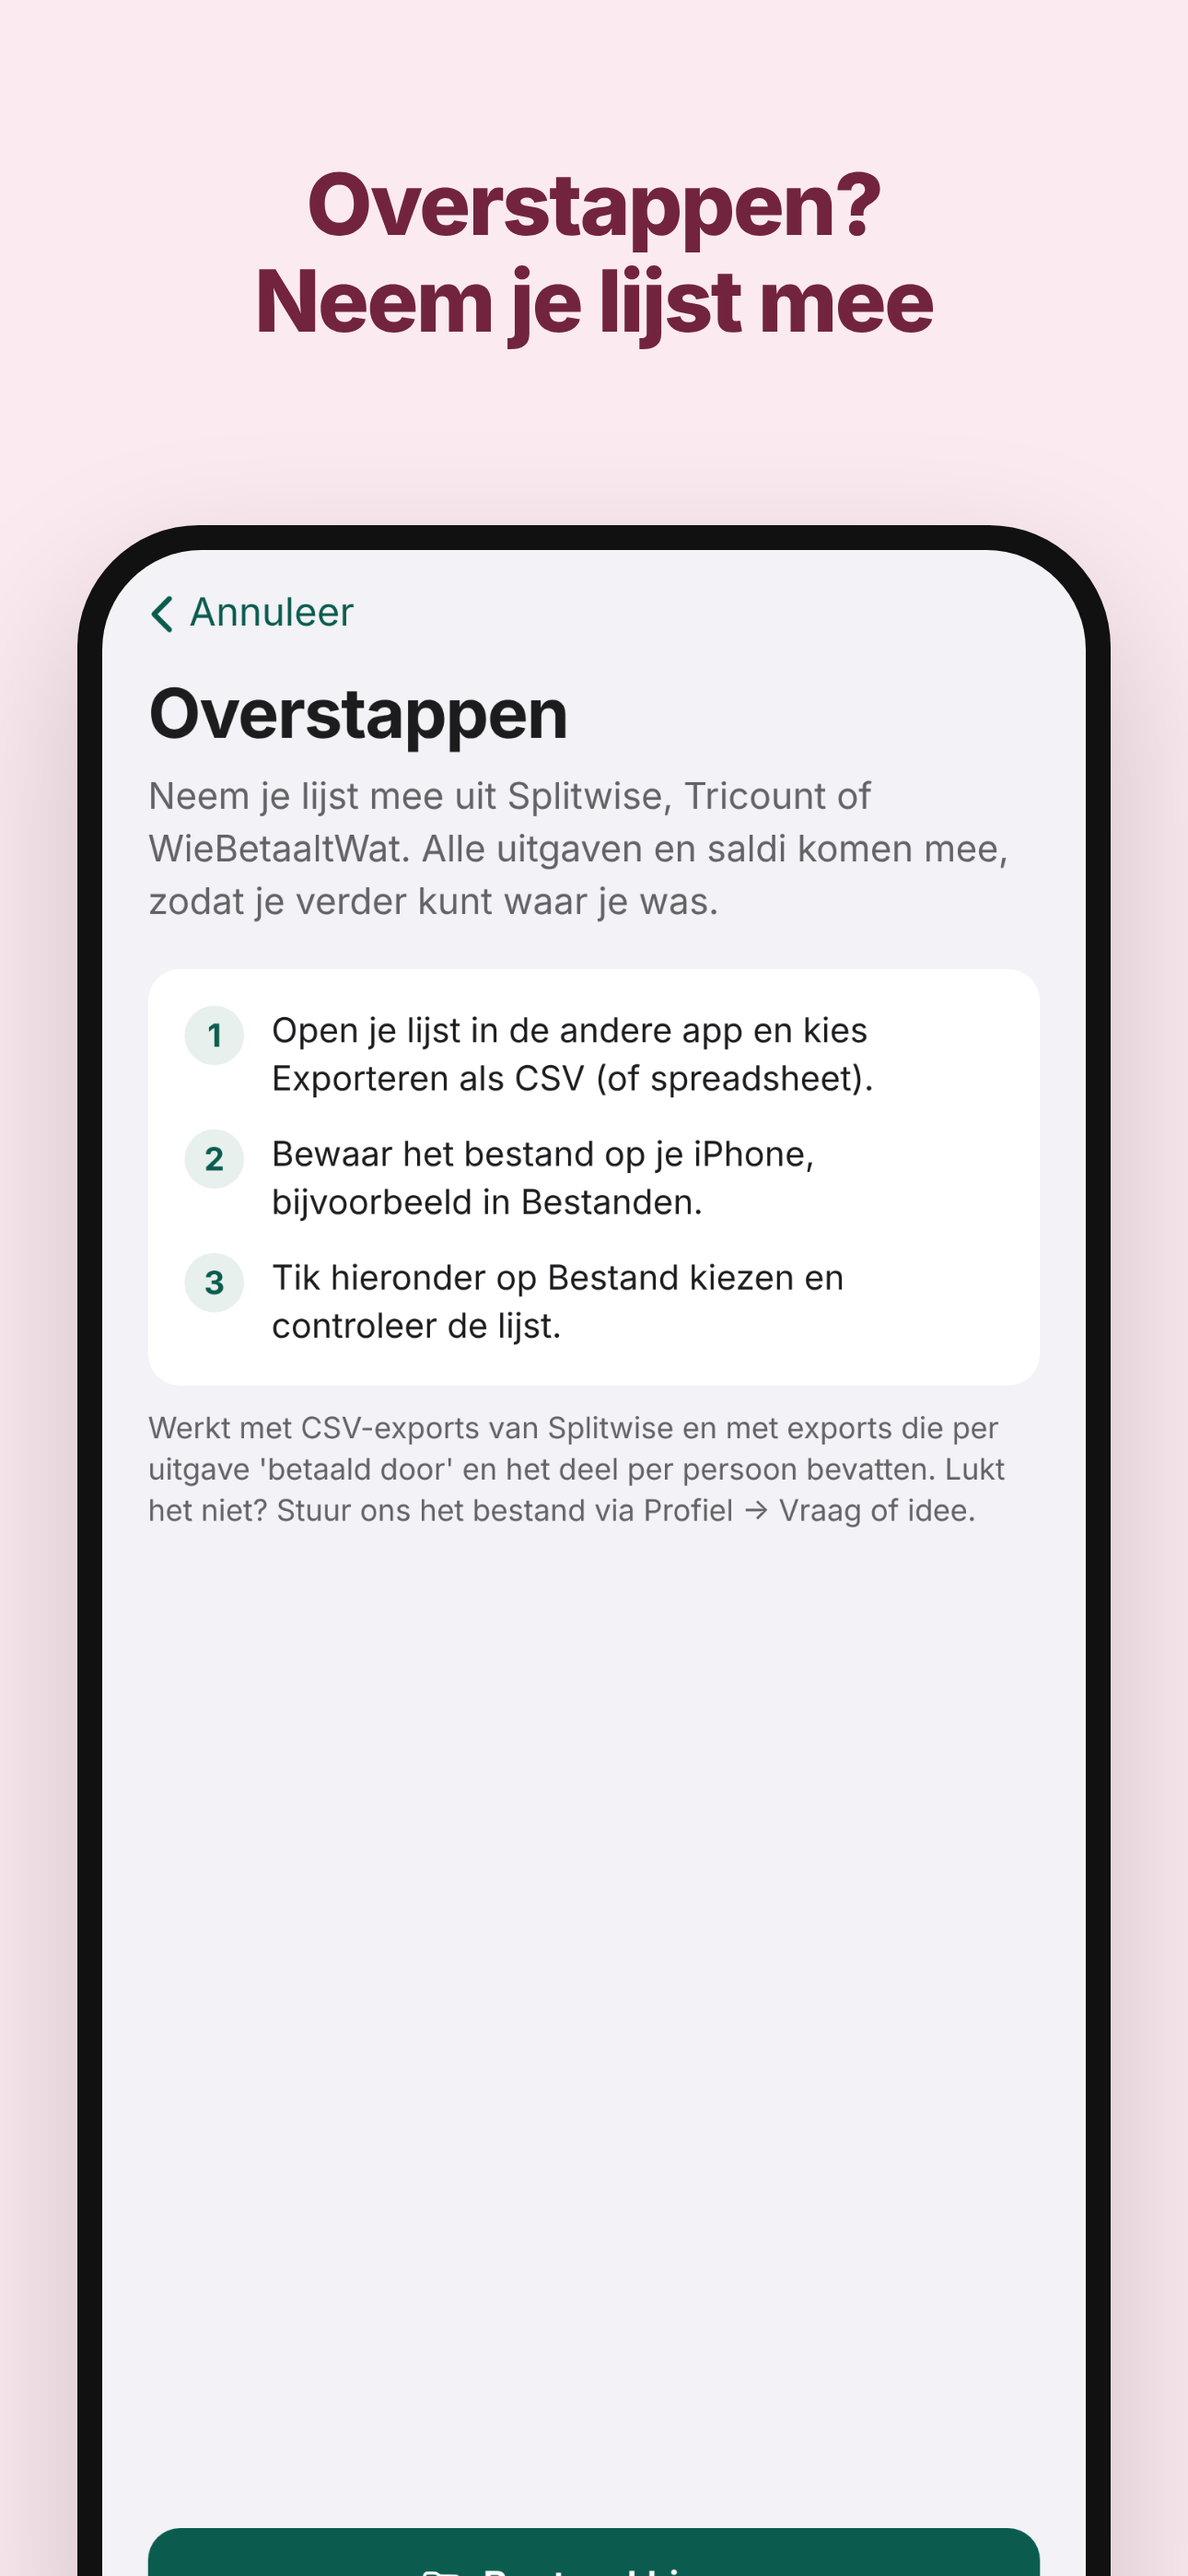
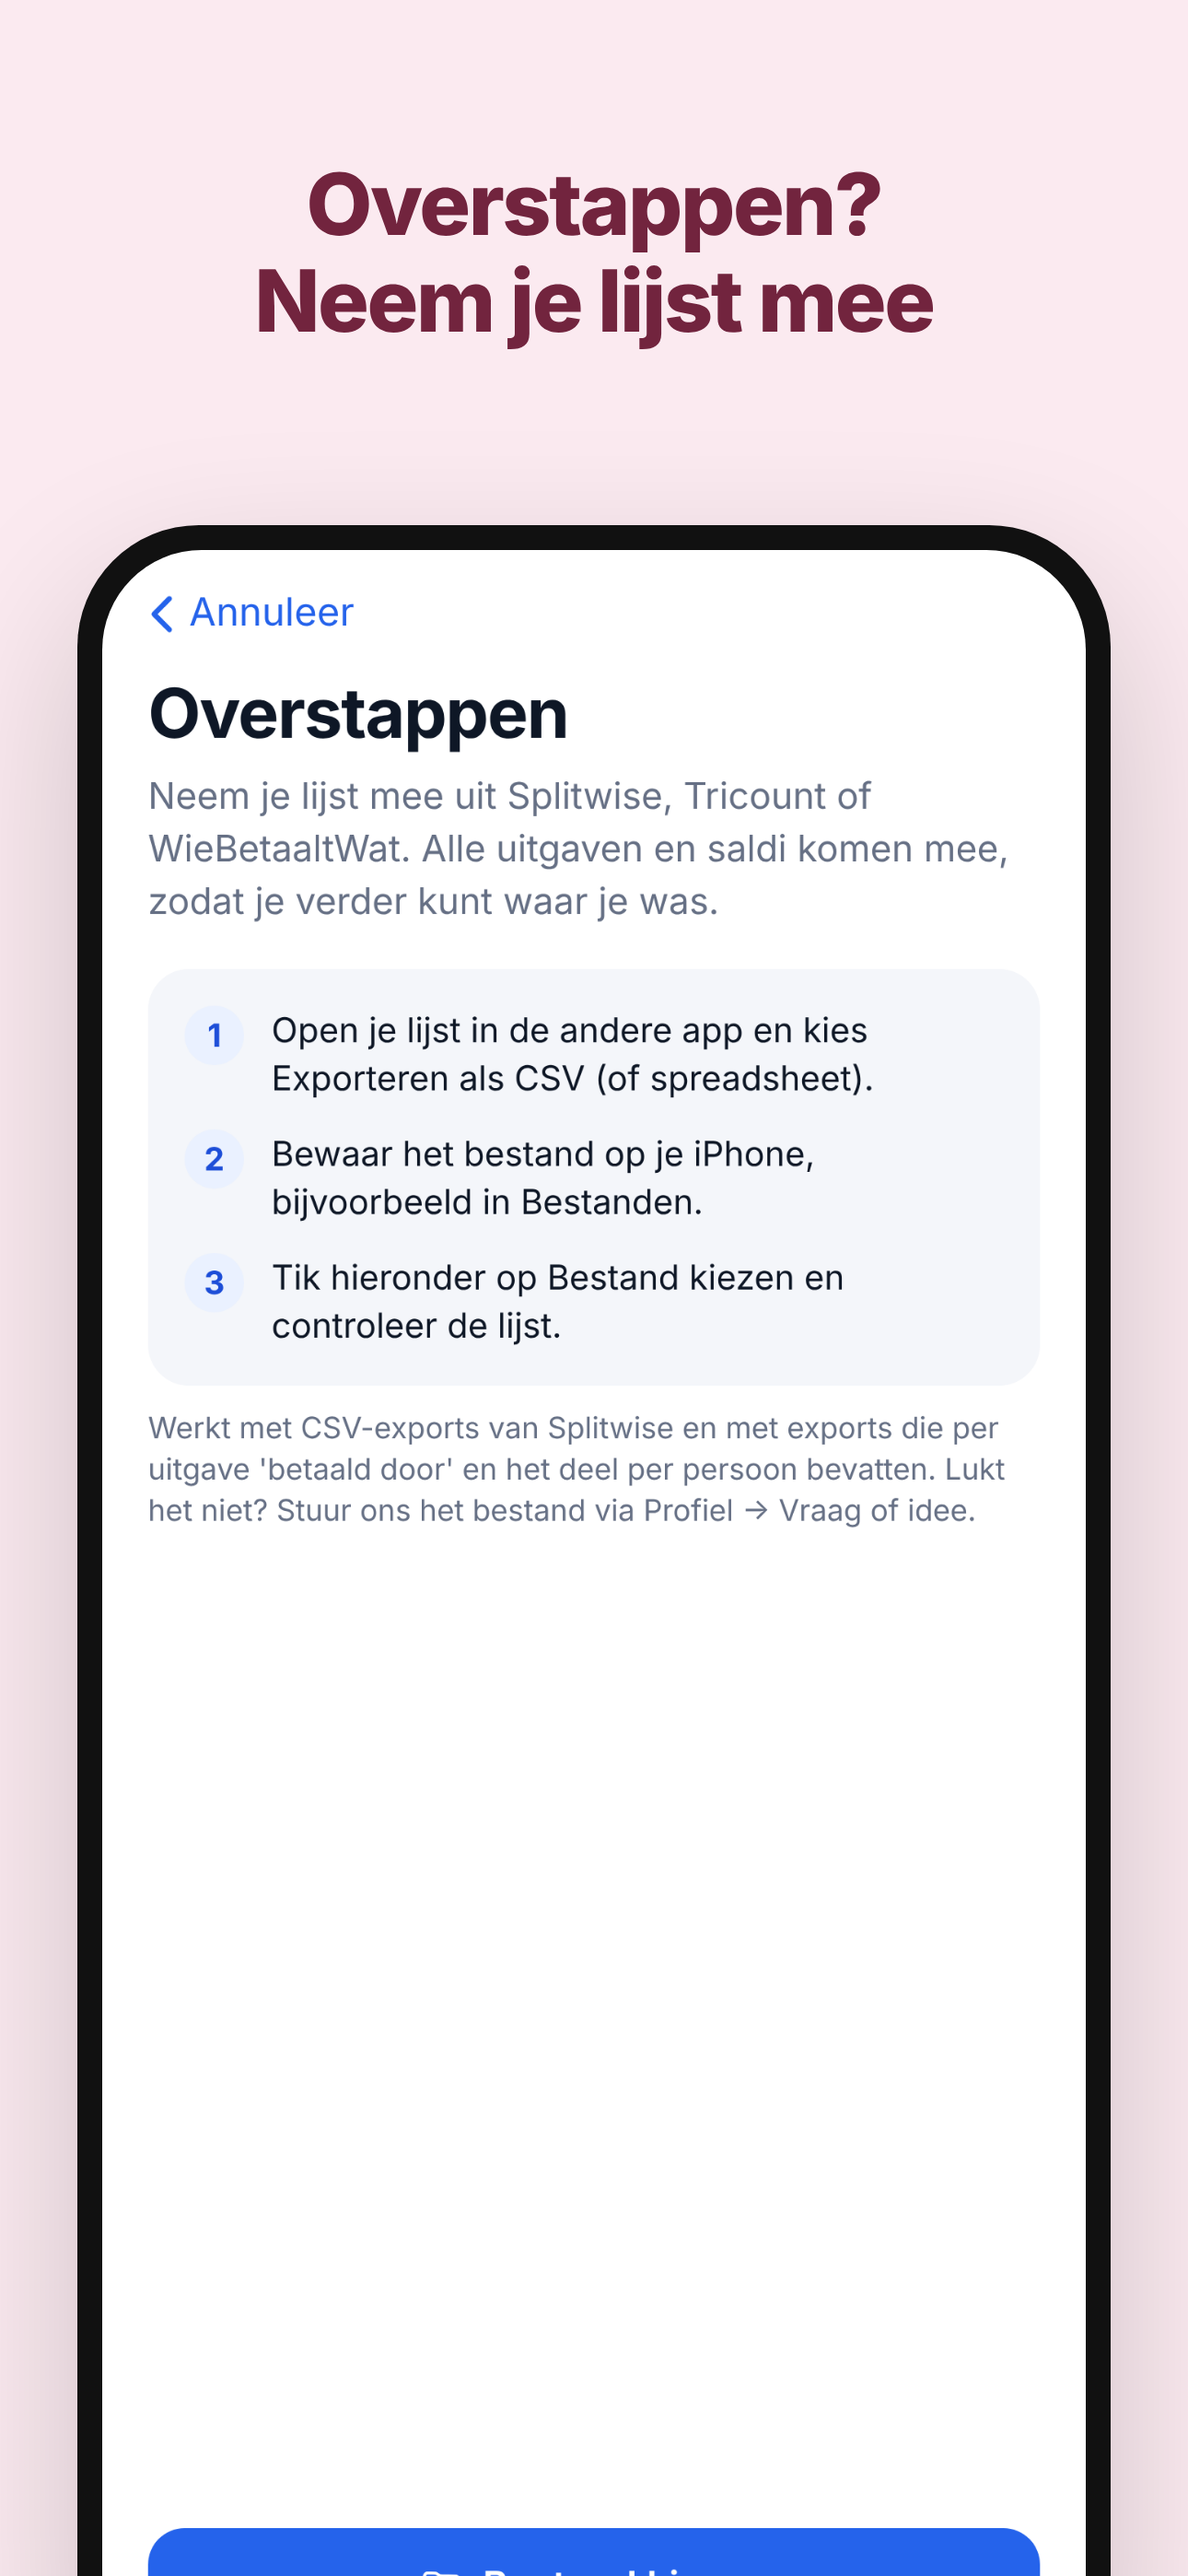
style(quitte): witte, premium look met vertrouwensblauw en nieuw app-icoon
- Wit als achtergrond, lichtgrijze kaarten, ruimere hoeken
- Merkkleur vertrouwensblauw; groen/koraal alleen voor bedragen
- Blauwe saldokaart met 'je krijgt' en 'te verrekenen', persoonlijke begroeting
- Zware cijfers met vaste breedte, inktblauwe plusknop
- Nieuw icoon (twee overlappende cirkels: samen delen) en splash
- Bijgewerkte App Store-screenshots

Claude-Session: https://claude.ai/code/session_01TTA4mVataxNmghfkdUyW3z

diff --git a/quitte/src/app/index.tsx b/quitte/src/app/index.tsx
@@ -17,7 +17,7 @@ import { Platform } from 'react-native';
 import { money } from '../lib/domain';
 import { plural, t } from '../lib/i18n';
 import { createDemoList, useStore, viewOf } from '../lib/store';
-import { usePalette, useTheme, type Hue } from '../lib/theme';
+import { num, usePalette, useTheme, type Hue } from '../lib/theme';
 import type { LocalList } from '../lib/types';
 
 type Row = { local: LocalList; name: string; members: string[]; entries: number; balance: number; currency: string; archived: boolean; open: number; hue: Hue; icon: ReturnType<typeof listLook>['icon'] };
@@ -55,24 +55,41 @@ export default function Home() {
   const active = rows.filter((r) => !r.archived);
   const archived = rows.filter((r) => r.archived);
   const totalEur = active.filter((r) => r.currency === 'EUR').reduce((s, r) => s + r.balance, 0);
-  const hero = usePalette(totalEur < 0 ? 'coral' : 'teal');
+  const getsEur = active.filter((r) => r.currency === 'EUR' && r.balance > 0).reduce((x, r) => x + r.balance, 0);
+  const owesEur = active.filter((r) => r.currency === 'EUR' && r.balance < 0).reduce((x, r) => x - r.balance, 0);
+  const profileName = useStore((s) => s.profile.name);
+  const hour = new Date().getHours();
+  const greeting = t(hour < 6 ? 'greetNight' : hour < 12 ? 'greetMorning' : hour < 18 ? 'greetAfternoon' : 'greetEvening', { name: profileName || '' }).replace(/,\s*$/, '');
 
   if (rows.length === 0) return <Welcome />;
 
   return (
     <Screen bottom={false}>
       <View style={{ flexDirection: 'row', alignItems: 'center', justifyContent: 'space-between', paddingHorizontal: 20, marginBottom: 14, marginTop: 4 }}>
-        <Text accessibilityRole="header" style={{ fontSize: 32, fontWeight: '700', letterSpacing: -0.7, color: th.text }}>
-          {t('lists')}
-        </Text>
-        <IconButton icon="person-circle-outline" label={t('settings')} onPress={() => router.push('/settings')} />
+        <View>
+          <Text style={{ fontSize: 15, fontWeight: '500', color: th.sub }}>{greeting}</Text>
+          <Text accessibilityRole="header" style={{ fontSize: 34, fontWeight: '800', letterSpacing: -1, color: th.text }}>
+            {t('lists')}
+          </Text>
+        </View>
+        <Pressable accessibilityRole="button" accessibilityLabel={t('settings')} onPress={() => router.push('/settings')} hitSlop={8}>
+          <Avatar name={profileName || '?'} size={40} />
+        </Pressable>
       </View>
       <ScrollView contentContainerStyle={{ paddingHorizontal: 20, paddingBottom: 120 }}>
-        <View style={{ backgroundColor: hero.bg, borderRadius: 18, paddingHorizontal: 18, paddingVertical: 16, marginBottom: 20 }}>
-          <Text style={{ fontSize: 13, fontWeight: '500', color: hero.strong, marginBottom: 2 }}>{t('acrossLists')}</Text>
-          <Text style={{ fontSize: 26, fontWeight: '700', letterSpacing: -0.5, color: hero.fg }}>
-            {totalEur === 0 ? t('allSquare') : totalEur > 0 ? t('youGetTotal', { amount: money(totalEur) }) : t('youPayTotal', { amount: money(-totalEur) })}
+        <View style={{ backgroundColor: th.hero, borderRadius: 24, paddingHorizontal: 20, paddingTop: 18, paddingBottom: 16, marginBottom: 24 }}>
+          <Text style={{ fontSize: 14, fontWeight: '500', color: th.onHero, opacity: 0.85 }}>{t('acrossLists')}</Text>
+          <Text style={[{ fontSize: 36, fontWeight: '800', letterSpacing: -1.2, color: th.onHero, marginTop: 2 }, num]} adjustsFontSizeToFit numberOfLines={1}>
+            {totalEur === 0 ? t('allSquareShort') : `${totalEur > 0 ? '+ ' : '− '}${money(Math.abs(totalEur))}`}
           </Text>
+          <View style={{ flexDirection: 'row', flexWrap: 'wrap', gap: 8, marginTop: 12 }}>
+            <View style={{ backgroundColor: 'rgba(255,255,255,0.18)', borderRadius: 14, paddingHorizontal: 12, height: 28, justifyContent: 'center' }}>
+              <Text style={[{ fontSize: 13, fontWeight: '700', color: th.onHero }, num]}>{t('heroGet', { amount: money(getsEur) })}</Text>
+            </View>
+            <View style={{ backgroundColor: 'rgba(255,255,255,0.18)', borderRadius: 14, paddingHorizontal: 12, height: 28, justifyContent: 'center' }}>
+              <Text style={[{ fontSize: 13, fontWeight: '700', color: th.onHero }, num]}>{t('heroOwe', { amount: money(owesEur) })}</Text>
+            </View>
+          </View>
         </View>
         <View style={{ gap: 10 }}>
           {active.map((r) => (
@@ -150,11 +167,12 @@ function ListRow({ row }: { row: Row }) {
             <Text style={{ fontSize: 13, fontWeight: '600', color: th.sub }}>{t('square')}</Text>
           </View>
         ) : (
-          <View style={{ paddingHorizontal: 10, height: 28, borderRadius: 14, backgroundColor: pill.bg, justifyContent: 'center' }}>
-            <Text style={{ fontSize: 14, fontWeight: '700', color: pill.fg }}>
+          <View style={{ alignItems: 'flex-end' }}>
+            <Text style={[{ fontSize: 16, fontWeight: '800', color: row.balance > 0 ? th.gain : th.owe }, num]}>
               {row.balance > 0 ? '+ ' : '− '}
               {money(Math.abs(row.balance), row.currency)}
             </Text>
+            <Text style={{ fontSize: 12, color: th.sub }}>{row.balance > 0 ? t('youGetLower') : t('toSettleLower')}</Text>
           </View>
         )}
       </Card>

diff --git a/quitte/src/lib/theme.ts b/quitte/src/lib/theme.ts
@@ -1,57 +1,64 @@
 import { useColorScheme } from 'react-native';
 
-// Rustige "dienst-app"-stijl: neutrale vlakken, één merkkleur voor acties,
-// groen/rood alleen op bedragen.
+// Wit en luchtig met één merkkleur: vertrouwensblauw. Groen en koraal alleen op bedragen.
 const light = {
-  bg: '#F2F2F7',
-  card: '#FFFFFF',
-  text: '#1C1C1E',
-  sub: '#636366',
-  line: '#E5E5EA',
-  border: '#D1D1D6',
+  bg: '#FFFFFF',
+  card: '#F4F6FA',
+  text: '#0E1726',
+  sub: '#667085',
+  line: '#E9ECF1',
+  border: '#DDE2E9',
   field: '#FFFFFF',
-  segment: '#E5E5EA',
-  accent: '#0B5C4F',
-  accentText: '#0B5C4F',
-  accentSoft: '#E7F0ED',
+  segment: '#EEF1F6',
+  accent: '#2563EB',
+  accentText: '#1D4ED8',
+  accentSoft: '#EAF1FF',
   onAccent: '#FFFFFF',
-  owe: '#C0392B',
-  oweBar: '#D9705C',
+  owe: '#E0533A',
+  oweBar: '#F08A74',
   oweSoft: '#FFFFFF',
-  gain: '#1E7A4C',
-  toast: '#1C1C1E',
+  gain: '#0E9F6E',
+  toast: '#0E1726',
   toastText: '#FFFFFF',
-  toastAction: '#8FD3C2',
-  danger: '#B42318',
-  scrim: 'rgba(0,0,0,0.35)',
-  neutralIcon: '#3A3A3C',
-  neutralFill: '#F2F2F7',
+  toastAction: '#93B4FF',
+  danger: '#D92D20',
+  scrim: 'rgba(14,23,38,0.35)',
+  neutralIcon: '#344054',
+  neutralFill: '#F2F4F7',
+  ink: '#0E1726',
+  onInk: '#FFFFFF',
+  hero: '#2563EB',
+  onHero: '#FFFFFF',
 };
 
 const dark: typeof light = {
-  bg: '#000000',
-  card: '#1C1C1E',
-  text: '#F2F2F7',
-  sub: '#A1A1A6',
-  line: '#38383A',
-  border: '#48484A',
-  field: '#1C1C1E',
-  segment: '#2C2C2E',
-  accent: '#4FB3A0',
-  accentText: '#7FCDBD',
-  accentSoft: '#1E2B29',
-  onAccent: '#04201B',
-  owe: '#FF8A7A',
-  oweBar: '#E0715E',
-  oweSoft: '#1C1C1E',
-  gain: '#6FD39A',
-  toast: '#F2F2F7',
-  toastText: '#1C1C1E',
-  toastAction: '#0B5C4F',
-  danger: '#FF8A7A',
+  bg: '#0B0F17',
+  card: '#151B26',
+  text: '#F2F4F7',
+  sub: '#98A2B3',
+  line: '#232B39',
+  border: '#2E3747',
+  field: '#151B26',
+  segment: '#1C2431',
+  accent: '#6B9BFF',
+  accentText: '#93B4FF',
+  accentSoft: '#17223A',
+  onAccent: '#071430',
+  owe: '#FF8F7A',
+  oweBar: '#E2735F',
+  oweSoft: '#151B26',
+  gain: '#4ADE9B',
+  toast: '#F2F4F7',
+  toastText: '#0E1726',
+  toastAction: '#2563EB',
+  danger: '#FF8F7A',
   scrim: 'rgba(0,0,0,0.55)',
-  neutralIcon: '#D1D1D6',
-  neutralFill: '#2C2C2E',
+  neutralIcon: '#D0D5DD',
+  neutralFill: '#1C2431',
+  ink: '#F2F4F7',
+  onInk: '#0B0F17',
+  hero: '#2F5FD0',
+  onHero: '#FFFFFF',
 };
 
 export type Theme = typeof light;
@@ -95,4 +102,7 @@ export function useTint(name: string) {
   return { bg: p.bg, fg: p.fg };
 }
 
-export const radius = { card: 14, button: 14, field: 12, chip: 10 };
+export const radius = { card: 18, button: 16, field: 14, chip: 12 };
+
+/** Bedragen: zware cijfers met vaste breedte, zodat kolommen netjes uitlijnen. */
+export const num = { fontVariant: ['tabular-nums'] as ('tabular-nums')[] };

diff --git a/quitte/src/app/list/[id]/index.tsx b/quitte/src/app/list/[id]/index.tsx
@@ -16,7 +16,7 @@ import { shareInvite, shareOverview } from '../../../lib/share';
 import { parseMoney } from '../../../lib/money';
 import { enqueue, removeLocal, updateLocal, useList } from '../../../lib/store';
 import { syncList, useLiveList } from '../../../lib/sync';
-import { radius, usePalette, useTheme } from '../../../lib/theme';
+import { num, radius, usePalette, useTheme } from '../../../lib/theme';
 import { listLook } from '../../../lib/look';
 import { LookPicker } from '../../../components/LookPicker';
 import { Image } from 'expo-image';
@@ -307,7 +307,7 @@ export default function ListScreen() {
           <View style={{ flexDirection: 'row', gap: 10, marginTop: 14 }}>
             <View style={{ flex: 1, backgroundColor: th.card, borderRadius: 14, paddingHorizontal: 12, paddingVertical: 10 }}>
               <Text style={{ fontSize: 12, fontWeight: '500', color: th.sub }}>{t('mySaldo')}</Text>
-              <Text numberOfLines={1} adjustsFontSizeToFit style={{ fontSize: 20, fontWeight: '700', letterSpacing: -0.3, color: myBal === 0 ? th.text : myBal > 0 ? th.gain : th.owe }}>
+              <Text numberOfLines={1} adjustsFontSizeToFit style={[{ fontSize: 21, fontWeight: '800', letterSpacing: -0.4, color: myBal === 0 ? th.text : myBal > 0 ? th.gain : th.owe }, num]}>
                 {myBal === 0 ? t('square') : `${myBal > 0 ? '+ ' : '− '}${money(Math.abs(myBal), cur)}`}
               </Text>
               {myBal < 0 && myOut.length === 1 ? (
@@ -324,7 +324,7 @@ export default function ListScreen() {
                 <Text style={{ fontSize: 12, fontWeight: '500', color: th.sub }}>{t('total')}</Text>
                 <Ionicons name="stats-chart-outline" size={13} color={th.sub} />
               </View>
-              <Text numberOfLines={1} adjustsFontSizeToFit style={{ fontSize: 20, fontWeight: '700', letterSpacing: -0.3, color: th.text }}>
+              <Text numberOfLines={1} adjustsFontSizeToFit style={[{ fontSize: 21, fontWeight: '800', letterSpacing: -0.4, color: th.text }, num]}>
                 {money(calc.total, cur)}
               </Text>
             </Pressable>
@@ -628,7 +628,7 @@ function Expenses({
               ) : null}
             </View>
             <View style={{ alignItems: 'flex-end' }}>
-              <Text style={{ fontSize: 16, fontWeight: '600', color: e.kind === 'income' ? th.gain : th.text }}>
+              <Text style={[{ fontSize: 16, fontWeight: '700', color: e.kind === 'income' ? th.gain : th.text }, num]}>
                 {e.kind === 'income' ? '+ ' : ''}
                 {money(e.amount, cur)}
               </Text>

diff --git a/quitte/src/components/BottomBar.tsx b/quitte/src/components/BottomBar.tsx
@@ -59,7 +59,7 @@ export function BottomBar({ active }: { active: 'lists' | 'activity' }) {
         right: 0,
         bottom: 0,
         paddingBottom: Math.max(insets.bottom, 10),
-        backgroundColor: th.card,
+        backgroundColor: th.bg,
         borderTopWidth: StyleSheet.hairlineWidth,
         borderTopColor: th.line,
         flexDirection: 'row',
@@ -87,9 +87,9 @@ function PlusButton({ onPress }: { onPress: () => void }) {
         onPressIn={() => spring(0.9)}
         onPressOut={() => spring(1)}
         onPress={onPress}
-        style={{ width: 62, height: 62, borderRadius: 31, backgroundColor: th.accent, alignItems: 'center', justifyContent: 'center', borderWidth: 4, borderColor: th.bg }}
+        style={{ width: 60, height: 60, borderRadius: 20, backgroundColor: th.ink, alignItems: 'center', justifyContent: 'center', borderWidth: 4, borderColor: th.bg }}
       >
-        <Ionicons name="add" size={32} color={th.onAccent} />
+        <Ionicons name="add" size={32} color={th.onInk} />
       </Pressable>
     </Animated.View>
   );

diff --git a/quitte/src/lib/strings.ts b/quitte/src/lib/strings.ts
@@ -534,6 +534,15 @@ export const nl = {
   restoreShort: "Terugzetten",
   pasteInviteTitle: "Uitnodiging gekregen?",
   pasteInviteBody: "Tik om de link te plakken en meteen mee te doen",
+  allSquareShort: "Overal quitte",
+  heroGet: "Je krijgt {amount}",
+  heroOwe: "Te verrekenen {amount}",
+  greetNight: "Goedenacht, {name}",
+  greetMorning: "Goedemorgen, {name}",
+  greetAfternoon: "Goedemiddag, {name}",
+  greetEvening: "Goedenavond, {name}",
+  youGetLower: "je krijgt",
+  toSettleLower: "te verrekenen",
 };
 
 export const en: typeof nl = {
@@ -1058,4 +1067,13 @@ export const en: typeof nl = {
   restoreShort: "Restore",
   pasteInviteTitle: "Got an invite?",
   pasteInviteBody: "Tap to paste the link and join right away",
+  allSquareShort: "All square",
+  heroGet: "You get {amount}",
+  heroOwe: "To settle {amount}",
+  greetNight: "Good night, {name}",
+  greetMorning: "Good morning, {name}",
+  greetAfternoon: "Good afternoon, {name}",
+  greetEvening: "Good evening, {name}",
+  youGetLower: "you get",
+  toSettleLower: "to settle",
 };
